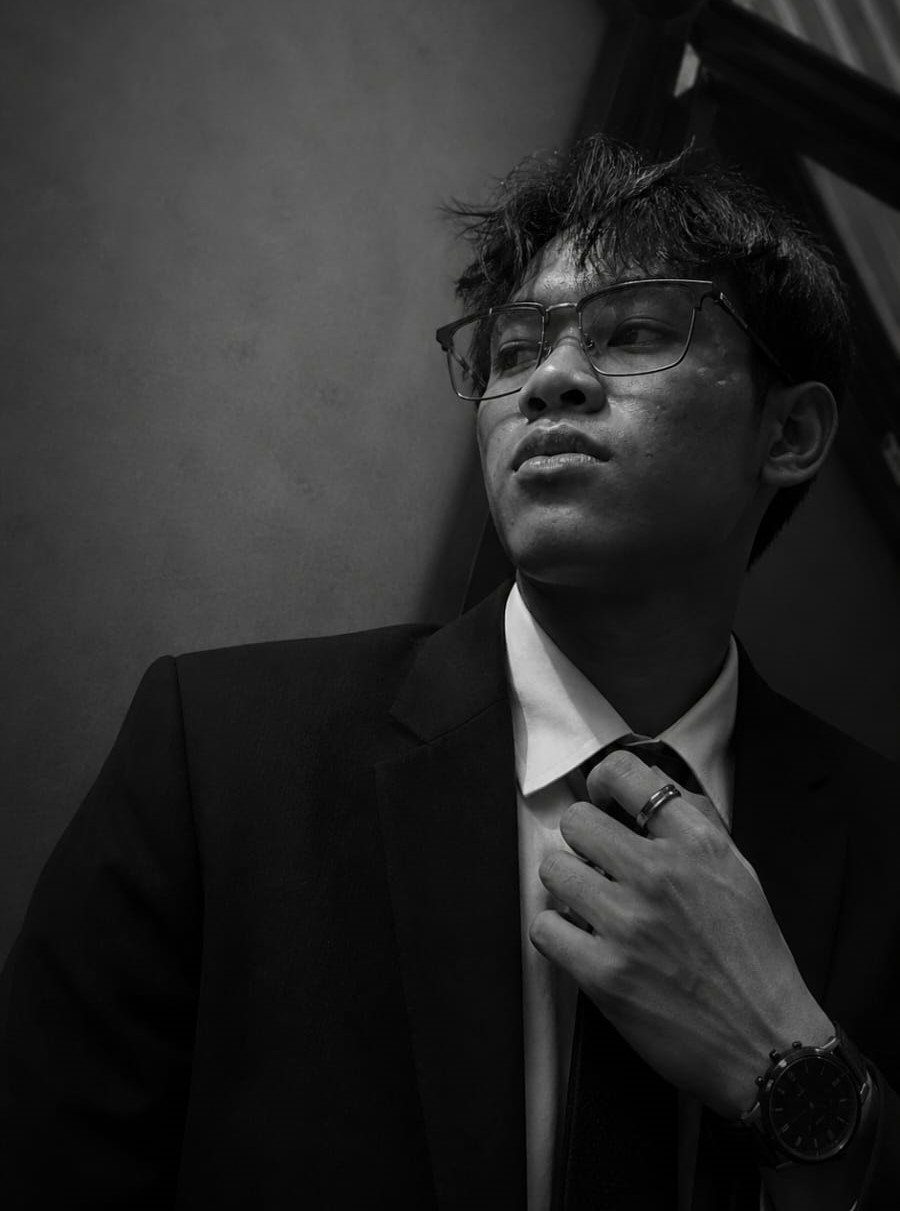
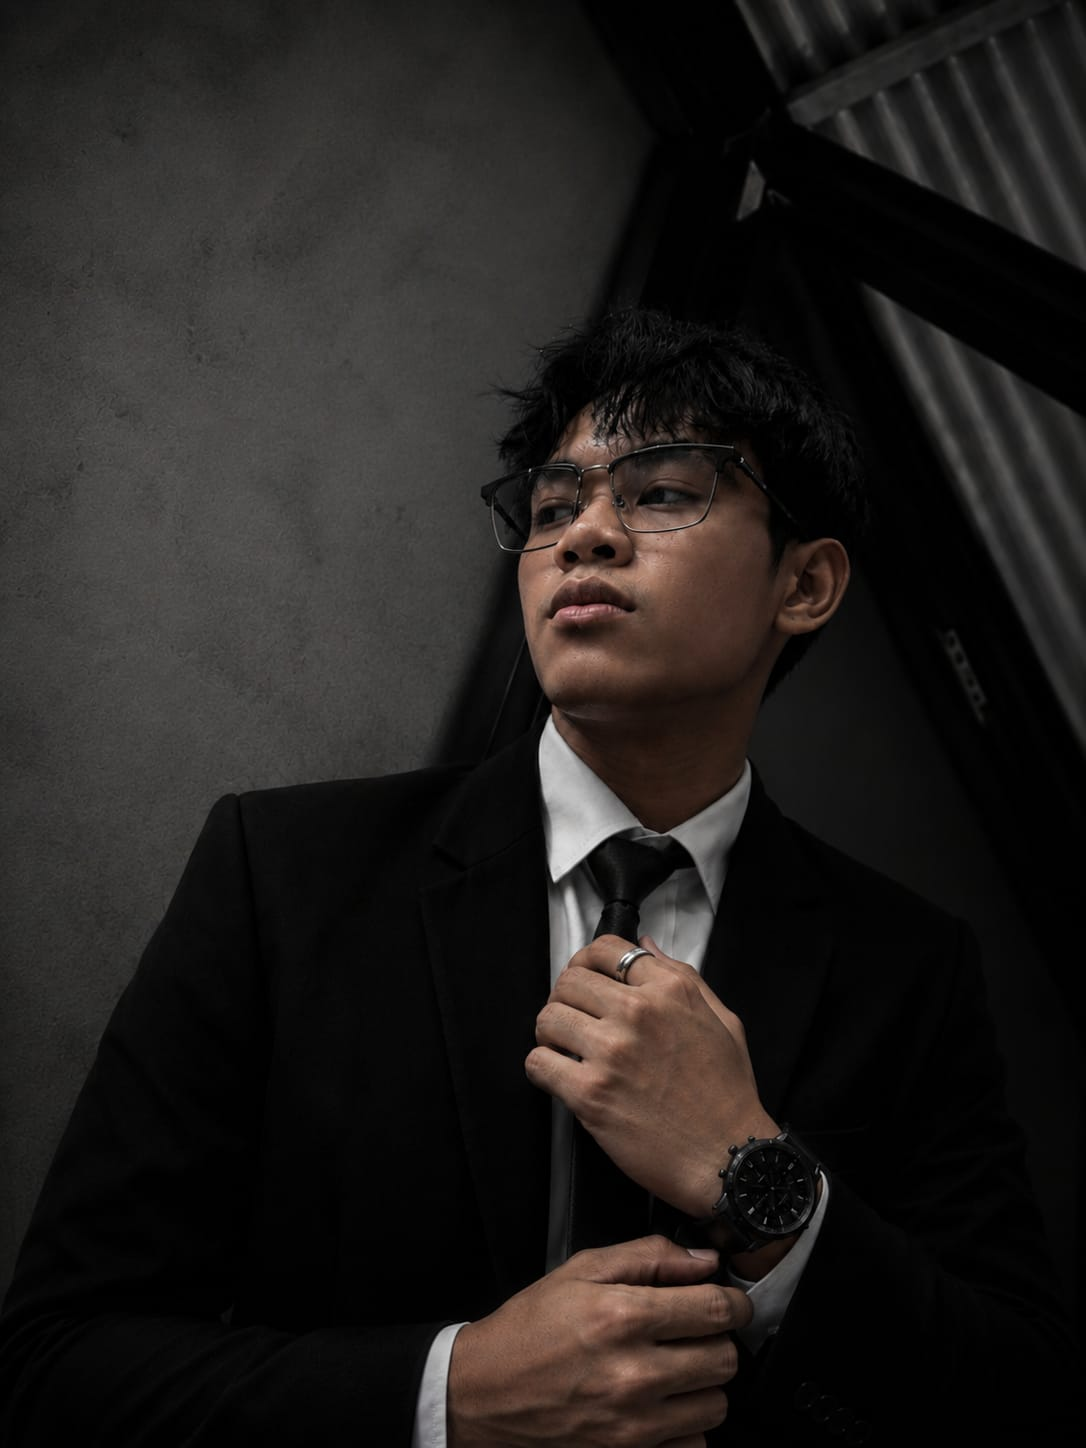
landing page, nambah foto, daftar nasabah + nasabah controller

diff --git a/resources/views/landing.blade.php b/resources/views/landing.blade.php
@@ -359,39 +359,47 @@
         }
 
         .member-img {
-            position: relative;
-            margin-bottom: 1.5rem;
             width: 230px;
-            height: 230px;
+            height: 320px;
             margin: 0 auto 20px;
-            border-radius: 50%;
             overflow: hidden;
-            border: 5px solid #52b788;
+
+            border-radius: 20px;
+
+            border: 4px solid #38b26d;
             box-shadow: 0 10px 25px rgba(0,0,0,0.15);
+
+            background: #111;
         }
 
         .member-img img {
             width: 100%;
-            height: 280px;
+            height: 100%;
+
             object-fit: cover;
-            border-radius: 20px;
-            transition: 0.4s ease;
+
+            object-position: center top;
+
+            transition: 0.3s ease;
         }
 
         .team-member:hover .member-img img {
-            transform: scale(1.22) translateY(10px);
+            transform: scale(1.03);
         }
 
         .member-info h4 {
             color: var(--primary-green);
+            margin-top: 12px;
+            font-size: 22px;
             font-weight: 700;
-            font-size: 1.2rem;
             margin-bottom: 0.5rem;
         }
 
         .member-info span {
             color: var(--light-green);
             font-weight: 600;
+            color: #38b26d;
+            font-size: 15px;
         }
 
         /* Contact Section */
@@ -751,11 +759,11 @@
             <div class="col-lg-3 col-md-6 col-sm-6">
                 <div class="team-member">
                     <div class="member-img">
-                        <img src="{{ asset('assets/img/team/aditya.jpg') }}" alt="Aditya Fadni">
+                        <img src="{{ asset('images/aditya.jpeg') }}" alt="Aditya Fadni">
                     </div>
                     <div class="member-info">
                         <h4>Aditya Fadni</h4>
-                        <span>Master & Backend</span>
+                        <span>Master</span>
                     </div>
                 </div>
             </div>
@@ -763,11 +771,11 @@
             <div class="col-lg-3 col-md-6 col-sm-6">
                 <div class="team-member">
                     <div class="member-img">
-                        <img src="{{ asset('assets/img/team/riky.jpg') }}" alt="Riky Rio">
+                        <img src="{{ asset('images/riky.jpeg') }}" alt="Riky Rio">
                     </div>
                     <div class="member-info">
                         <h4>Riky Rio</h4>
-                        <span>Frontend & Database</span>
+                        <span>Frontend & Backend</span>
                     </div>
                 </div>
             </div>
@@ -788,10 +796,10 @@
             <div class="col-lg-3 col-md-6 col-sm-6">
                 <div class="team-member">
                     <div class="member-img">
-                        <img src="{{ asset('assets/img/team/dhimas.jpg') }}" alt="Dhimas">
+                        <img src="{{ asset('images/dhimas.jpeg') }}" alt="Dhimas">
                     </div>
                     <div class="member-info">
-                        <h4>Dhimas</h4>
+                        <h4>Dhimas Ananta</h4>
                         <span>UI/UX</span>
                     </div>
                 </div>

diff --git a/app/Http/Controllers/NasabahController.php b/app/Http/Controllers/NasabahController.php
@@ -67,7 +67,7 @@ class NasabahController extends Controller
                 'no_hp' => $item->no_hp ?? '-',
                 'saldo' => $item->saldo ?? 0,
                 'status_akun' => $item->status_akun ?? 'verifikasi',
-                'tanggal_daftar' => $item->tanggal_daftar?->format('Y-m-d') ?? '-',
+                'tanggal_daftar' => $item->tanggal_daftar instanceof \DateTime ? $item->tanggal_daftar->format('Y-m-d') : (is_string($item->tanggal_daftar) ? $item->tanggal_daftar : '-'),
             ];
         })
         ->toArray();
